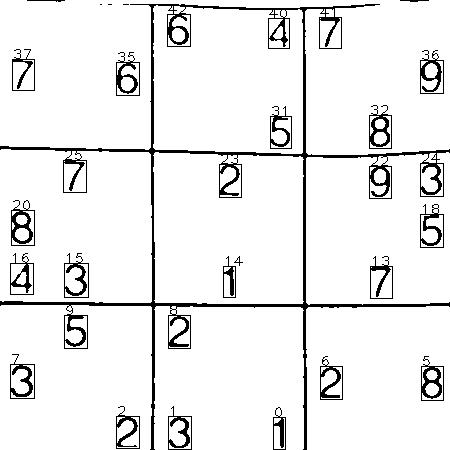
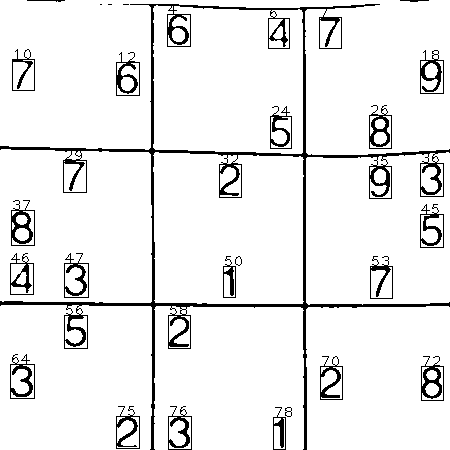
better

diff --git a/Sudoku.js b/Sudoku.js
@@ -1,5 +1,6 @@
 const cv = require('opencv4nodejs');
 const Tesseract = require('tesseract.js')
+const fs = require('fs');
 
 class Sudoku {
     constructor({size = 3, chars = ['1', '2', '3', '4', '5', '6', '7', '8', '9'], unknowChar = '.'} = {}) {
@@ -122,6 +123,7 @@ class Sudoku {
             const rect = testImgRects[i];
             const { x, y, width, height } = rect;
             const area = width * height;
+            // 最小的面積是一個魔法數字
             if (area <= smallGridArea && area >= smallGridArea / 12) {
                 testImg.drawRectangle(
                     new cv.Point2(x, y),
@@ -130,100 +132,87 @@ class Sudoku {
                 
                 // 計算每一格與矩形的重疊面積
                 let areas = [];
-                let j = 0;
                 for (let y = 0; y < size; y += smallGrid) {
                     for (let x = 0; x < size; x += smallGrid) {
                         const { width, height } = rect.and(new cv.Rect(x, y, smallGrid, smallGrid));
-                        if (width * height) {
-                            areas.push({ 
-                                i : j, 
-                                rect : rect, 
-                                area : width * height
-                            });
-                        }
-                        j++;
+                        areas.push(width * height);
                     }
                 }
-                areas.sort((a, b) => {
-                    return a.area + b.area;
-                });
-                rectInGrid.push(areas[0]);
-                // rectInGrid.push(areas[0].area ? areas[0].rect : '.');
-                testImg.putText(i, new cv.Point2(areas[0].rect.x, areas[0].rect.y), 1, 1)
+                const indexOfMaxArea = areas.indexOf(Math.max(...areas));
+                rectInGrid[indexOfMaxArea] = rect;
             } else {
-                // 刪除太大太小的矩形
+                // 刪除太大太小的矩形(沒必要)
                 delete testImgRects[i];
             }
         }
         console.log('g', rectInGrid)
         // testImg.crop(rectInGrid[0]);
         
-        /**
-         * @param {cv.Mat} mat
-         * @param {cv.Rect} rect
-         * @param {cv.Size} resize
-         */
-        function crop(mat, rect, resize) {
-            const { x, y, width, height} = rect;
-            const cropCnt = [
-                new cv.Point2(x, y),
-                new cv.Point2(x + width, y),
-                new cv.Point2(x, y + height),
-                new cv.Point2(x + width, y + height)
-            ];
-            // const dst = [
-            //     new cv.Point2(rect.x, rect.y), 
-            //     new cv.Point2(rect., -edge), 
-            //     new cv.Point2(-edge, size + edge), 
-            //     new cv.Point2(size + edge, size + edge)
-            // ];
-            const m = cv.getPerspectiveTransform(cropCnt, cropCnt);
-            resize = resize ?? new cv.Size(width, height);
-            return mat.warpPerspective(m, resize);
-        }
+        // 標記數字所在的格子位置
+        rectInGrid.forEach((e, i) => {
+            testImg.putText(`${i + 1}`, new cv.Point2(e.x, e.y), 1, 1);
+        });
 
-        let cropNumImg = crop(testImg, rectInGrid[0].rect);
-        cv.imwrite('cropNumImg.png', cropNumImg);
-
-
-
-        /*
-        for (let i = 0; i < this.length; i++) {
-            for (let j = 0; j < this.length; j++) {
-                testImg.drawRectangle(
-                    new cv.Point2(edgeSize + smallGrid * i, edgeSize + smallGrid * j), 
-                    new cv.Point2(edgeSize + smallGrid * i + deteSmallGridSize, edgeSize + smallGrid * j + deteSmallGridSize), 
-                    new cv.Vec3(0, 0, 255),
-                );
+        const folderName = 'cropNumImg';
+        try {
+            const files = fs.readdirSync(folderName);
+            for (const file of files) {
+                fs.unlink(`${folderName}/${file}`, err => {
+                    if (err) throw err;
+                });
+            }
+        } catch(e) {
+            if (e.code == 'ENOENT') {
+                fs.mkdirSync(folderName);
             }
         }
-        */
+        // 把roi數字寫入到文件
+        rectInGrid.forEach((e, i) => {
+            cv.imwrite(`${__dirname}/${folderName}/${i}.png`, result.getRegion(e));
+        });
+
+        // 畫每個格子的矩形
+        // for (let i = 0; i < this.length; i++) {
+        //     for (let j = 0; j < this.length; j++) {
+        //         testImg.drawRectangle(
+        //             new cv.Point2(edgeSize + smallGrid * i, edgeSize + smallGrid * j), 
+        //             new cv.Point2(edgeSize + smallGrid * i + deteSmallGridSize, edgeSize + smallGrid * j + deteSmallGridSize), 
+        //             new cv.Vec3(0, 0, 255),
+        //         );
+        //     }
+        // }
+
         cv.imwrite('5.png', testImg);
 
+        (async () => {
+            const worker = Tesseract.createWorker();
+            await worker.load();
+            await worker.loadLanguage('eng');
+            await worker.initialize('eng');
+            await worker.setParameters({
+                tessedit_char_whitelist: '0123456789',
+                tessedit_pageseg_mode: Tesseract.PSM.SINGLE_CHAR
+            });
+            let list = [];
+            rectInGrid.forEach((e, i) => {
+                const { data: { text }} = await worker.recognize(`4.png`, {
+                    rectangle: { top: e.y, left: e.x, width: e.width, height: e.height }
+                });
+                list[i] = text.trim();
+            });
 
-
-        // (async () => {
-        //     const worker = Tesseract.createWorker();
-        //     await worker.load();
-        //     await worker.loadLanguage('eng');
-        //     await worker.initialize('eng');
-        //     await worker.setParameters({
-        //         tessedit_char_whitelist: '0123456789',
-        //         tessedit_pageseg_mode: Tesseract.PSM.SINGLE_CHAR
-        //     });
-        //     let list = [];
-        //     for (let i = 0; i < this.length; i++) {
-        //         for (let j = 0; j < this.length; j++) {
-        //             const { data: { text } } = await worker.recognize('3.png', {
-        //                 rectangle: { top: edgeSize + smallGrid * i, left: edgeSize + smallGrid * j, width: deteSmallGridSize, height: deteSmallGridSize },
-        //             });
-        //             list.push(text == '' ? '.' : text.trim());
-        //         }
-        //     }
-        //     console.log(list);
-        //     console.table(Sudoku.resize(list, 9));
-        //     await worker.terminate();
-        // })();
+            // for (let i = 0; i < this.length; i++) {
+            //     for (let j = 0; j < this.length; j++) {
+            //         const { data: { text } } = await worker.recognize('.png', {
+            //             rectangle: { top: edgeSize + smallGrid * i, left: edgeSize + smallGrid * j, width: deteSmallGridSize, height: deteSmallGridSize },
+            //         });
+            //         list.push(text == '' ? '.' : text.trim());
+            //     }
+            // }
+            console.log(list);
+            console.table(Sudoku.resize(list, 9));
+            await worker.terminate();
+        })();
     }
     static resize(list, l) {
         let result = [];
